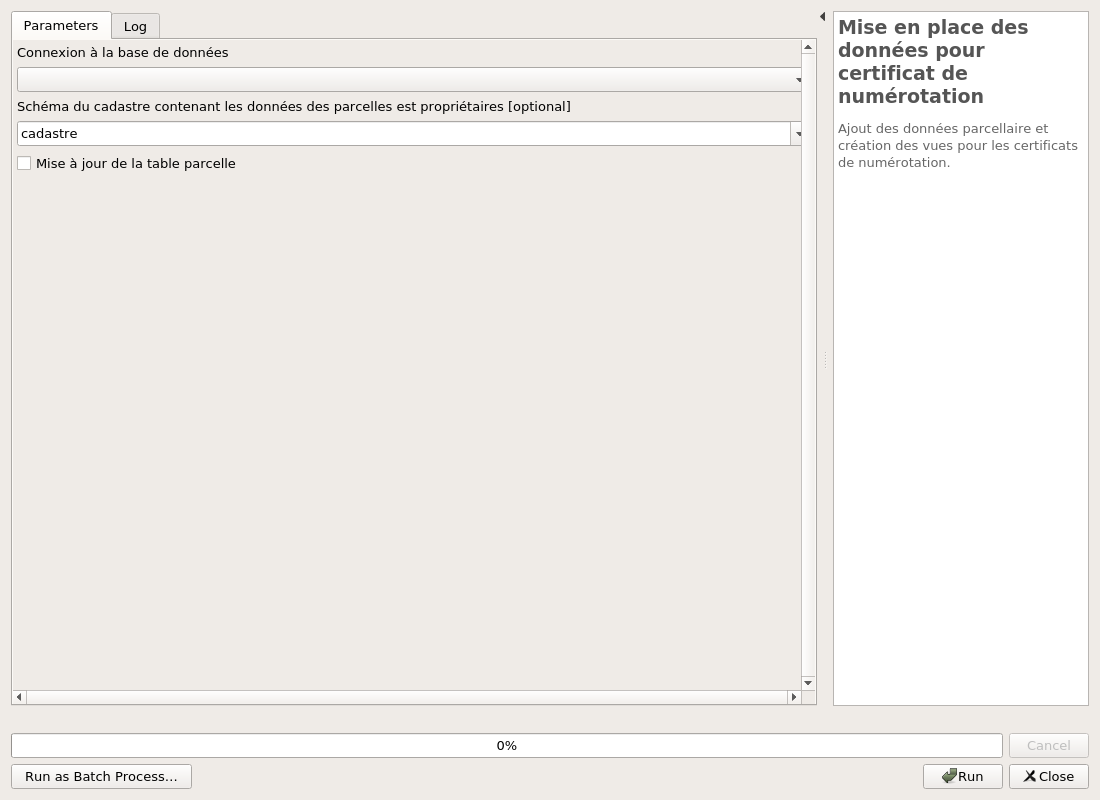
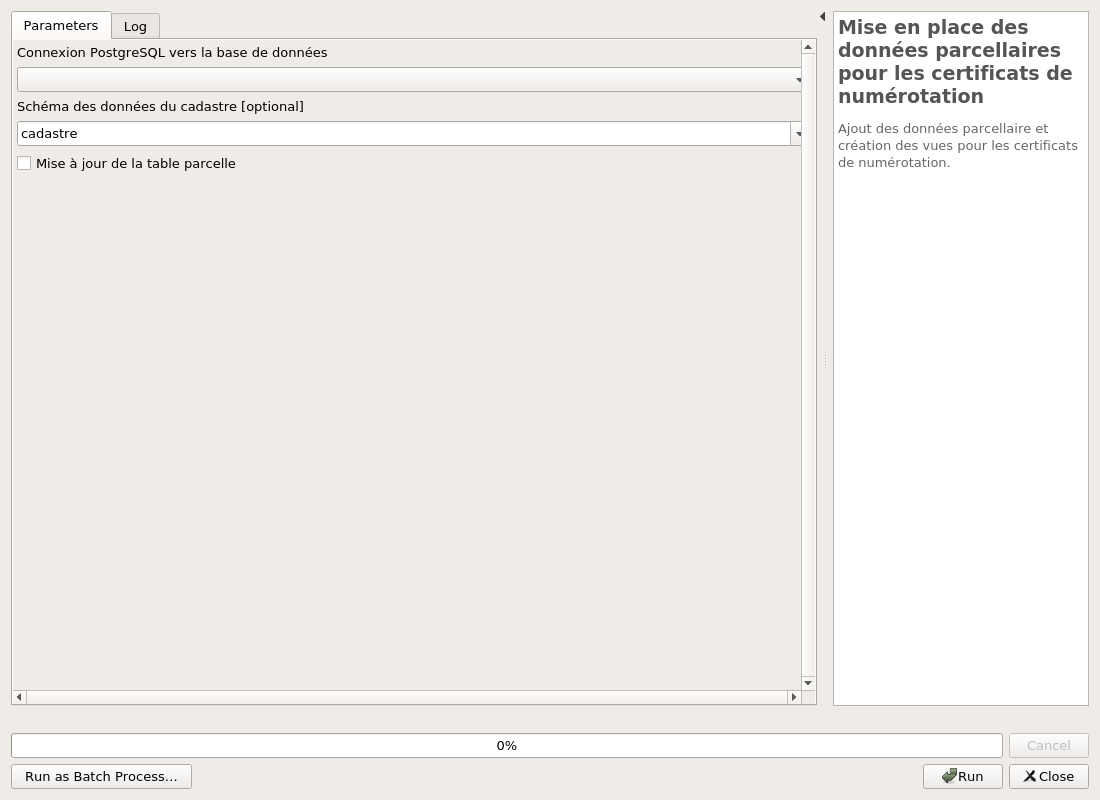
Docs - Update processing documentation

Changed region(s): [[0.7727, 0.0312, 0.9891, 0.125], [0.0618, 0.125, 0.5255, 0.1562], [0.0927, 0.0625, 0.3091, 0.0938]]

diff --git a/docs/processing/README.md b/docs/processing/README.md
@@ -18,8 +18,8 @@ La configuration ajoute les variables concernant le nom des couches dans le proj
 
 | ID | Description | Type | Info | Required | Advanced | Option |
 |:-:|:-:|:-:|:-:|:-:|:-:|:-:|
-ADDRESS_LAYER|Voirie|VectorLayer||✓||Type: TypeVectorLine <br>|
-STREET_LAYER|Point adresse|VectorLayer||✓||Type: TypeVectorPoint <br>|
+STREET_LAYER|Voirie|VectorLayer||✓||Type: TypeVectorLine <br>|
+ADDRESS_LAYER|Point adresse|VectorLayer||✓||Type: TypeVectorPoint <br>|
 
 
 #### Outputs
@@ -31,7 +31,7 @@ No output
 ***
 
 
-## Structure
+## Structure des données
 
 
 ### Installation de la structure sur la base de données
@@ -44,7 +44,7 @@ Création de la structure de la base données. Vous pouvez aussi charger des don
 
 | ID | Description | Type | Info | Required | Advanced | Option |
 |:-:|:-:|:-:|:-:|:-:|:-:|:-:|
-CONNECTION_NAME|Connexion PostgreSQL vers la base de données|String||✓|||
+CONNECTION_NAME|Connexion PostgreSQL vers la base de données|String|Nom de la connexion dans QGIS pour se connecter à la base de données|✓|||
 OVERRIDE|Écraser le schéma adresse ? ** ATTENTION ** Cela supprimera toutes les données !|Boolean||✓|||
 SRID|Système de coordonnée pour vos données ?|Crs||✓||Default: EPSG:2154 <br> |
 ADD_TEST_DATA|Ajouter des données de test ?|Boolean||✓|||
@@ -56,6 +56,7 @@ ADD_TEST_DATA|Ajouter des données de test ?|Boolean||✓|||
 |:-:|:-:|:-:|:-:|
 OUTPUT_STATUS|Output status|Number||
 OUTPUT_STRING|Output message|String||
+DATABASE_VERSION|Database version|String||
 
 
 ***
@@ -71,7 +72,7 @@ Mise à jour de la base de données suite à une nouvelle version de l'extension
 
 | ID | Description | Type | Info | Required | Advanced | Option |
 |:-:|:-:|:-:|:-:|:-:|:-:|:-:|
-CONNECTION_NAME|Connexion PostgreSQL vers la base de données|String||✓|||
+CONNECTION_NAME|Connexion PostgreSQL vers la base de données|String|Nom de la connexion dans QGIS pour se connecter à la base de données|✓|||
 RUN_MIGRATIONS|Cocher cette option pour lancer la mise-à-jour.|Boolean||✓|||
 SRID|Projection des géométries|Crs||✓||Default: EPSG:2154 <br> |
 
@@ -90,7 +91,7 @@ OUTPUT_STRING|Output message|String||
 ## Données
 
 
-### Mise en place des données pour certificat de numérotation
+### Mise en place des données parcellaires pour les certificats de numérotation
 
 Ajout des données parcellaire et création des vues pour les certificats de numérotation.
 
@@ -100,8 +101,8 @@ Ajout des données parcellaire et création des vues pour les certificats de num
 
 | ID | Description | Type | Info | Required | Advanced | Option |
 |:-:|:-:|:-:|:-:|:-:|:-:|:-:|
-DATABASE|Connexion à la base de données|String||✓|||
-SCHEMA|Schéma du cadastre contenant les données des parcelles est propriétaires|String||||Default: cadastre <br> |
+CONNECTION_NAME|Connexion PostgreSQL vers la base de données|String|Base de données de destination|✓|||
+SCHEMA|Schéma des données du cadastre|String|Nom du schéma des données cadastre|||Default: cadastre <br> |
 TRUNCATE_PARCELLE|Mise à jour de la table parcelle|Boolean||✓|||
 
 
@@ -126,8 +127,8 @@ Charger toutes les couches de la base de données.
 
 | ID | Description | Type | Info | Required | Advanced | Option |
 |:-:|:-:|:-:|:-:|:-:|:-:|:-:|
-DATABASE|Connexion à la base de données|String||✓|||
-SCHEMA|Schéma|String||||Default: adresse <br> |
+CONNECTION_NAME|Connexion PostgreSQL vers la base de données|String|Base de données de destination|✓|||
+SCHEMA|Schéma|String|Nom du schéma des données adresses|||Default: adresse <br> |
 
 
 #### Outputs
@@ -160,6 +161,28 @@ INPUT|Champ qui ne sert à rien !|String|||||
 |:-:|:-:|:-:|:-:|
 OUTPUT MSG|Message de sortie|String||
 
+
+***
+
+
+### Rafraîchissement de la vue adresse.v_certificat
+
+Cet algorithme permet le rafraîchissement de la vue matérialisée adresse.v_certificat.<br>Il faut effectuer cette opération quand il y a des changements dans votre schéma 'cadastre'.<br><br>La vue est créée par l'algorithme 'Mise en place des données parcellaires'.
+
+![algo_id](./gestion_adresse-refresh_view_certificat.png)
+
+#### Parameters
+
+| ID | Description | Type | Info | Required | Advanced | Option |
+|:-:|:-:|:-:|:-:|:-:|:-:|:-:|
+CONNECTION_NAME|Connexion PostgreSQL vers la base de données|String|Base de données de vos schémas 'cadastre' et 'adresse'|✓|||
+
+
+#### Outputs
+
+| ID | Description | Type | Info |
+|:-:|:-:|:-:|:-:|
+No output
 
 ***
 
